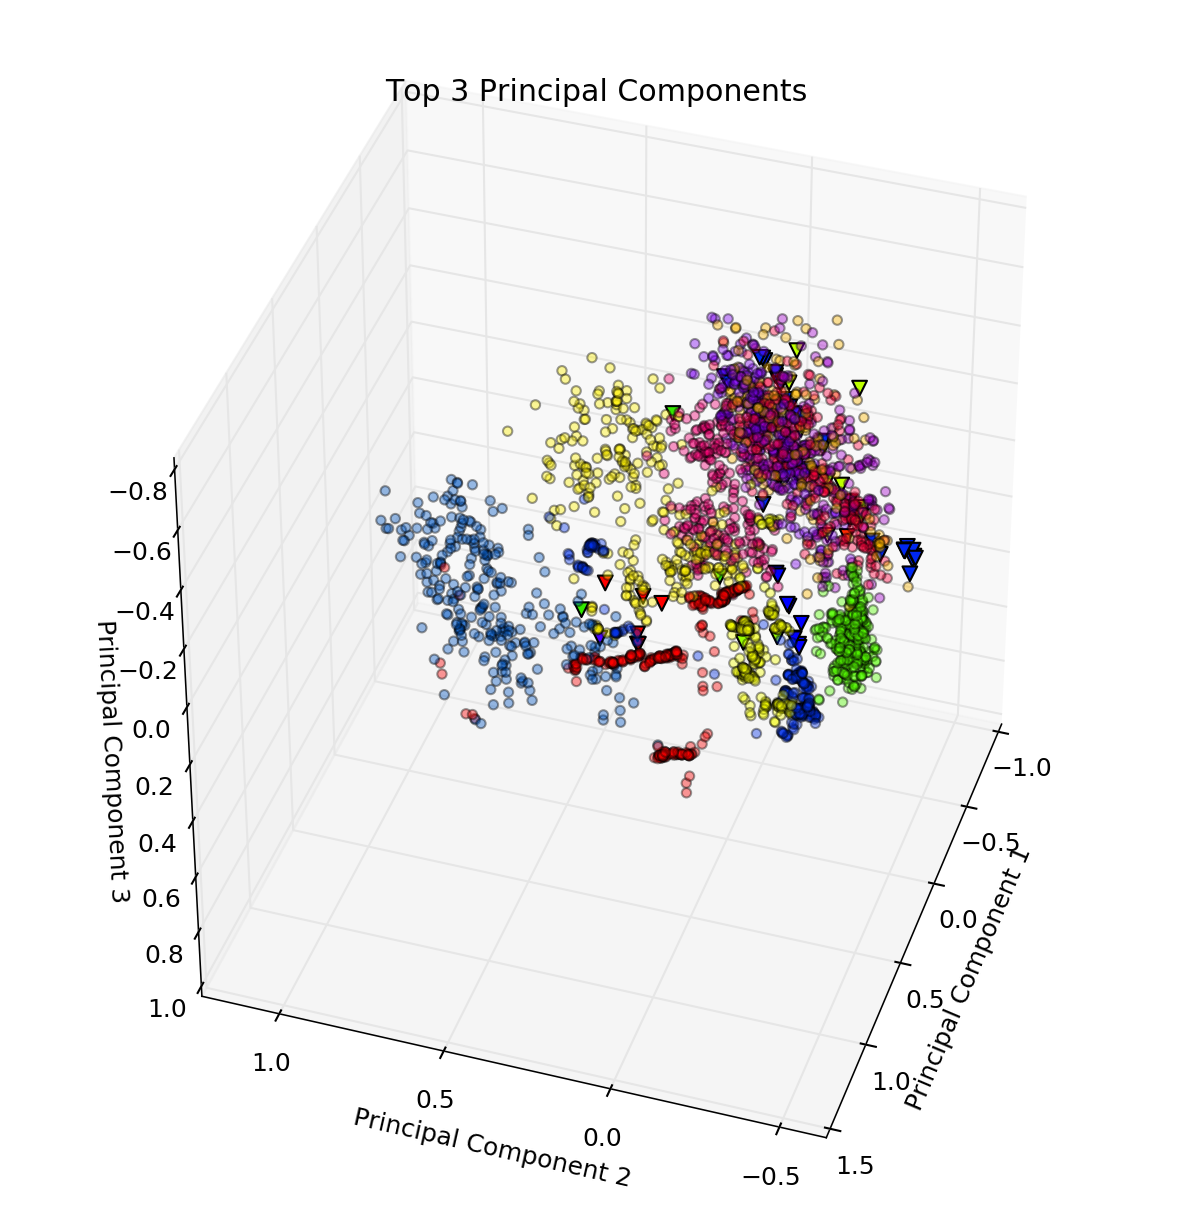
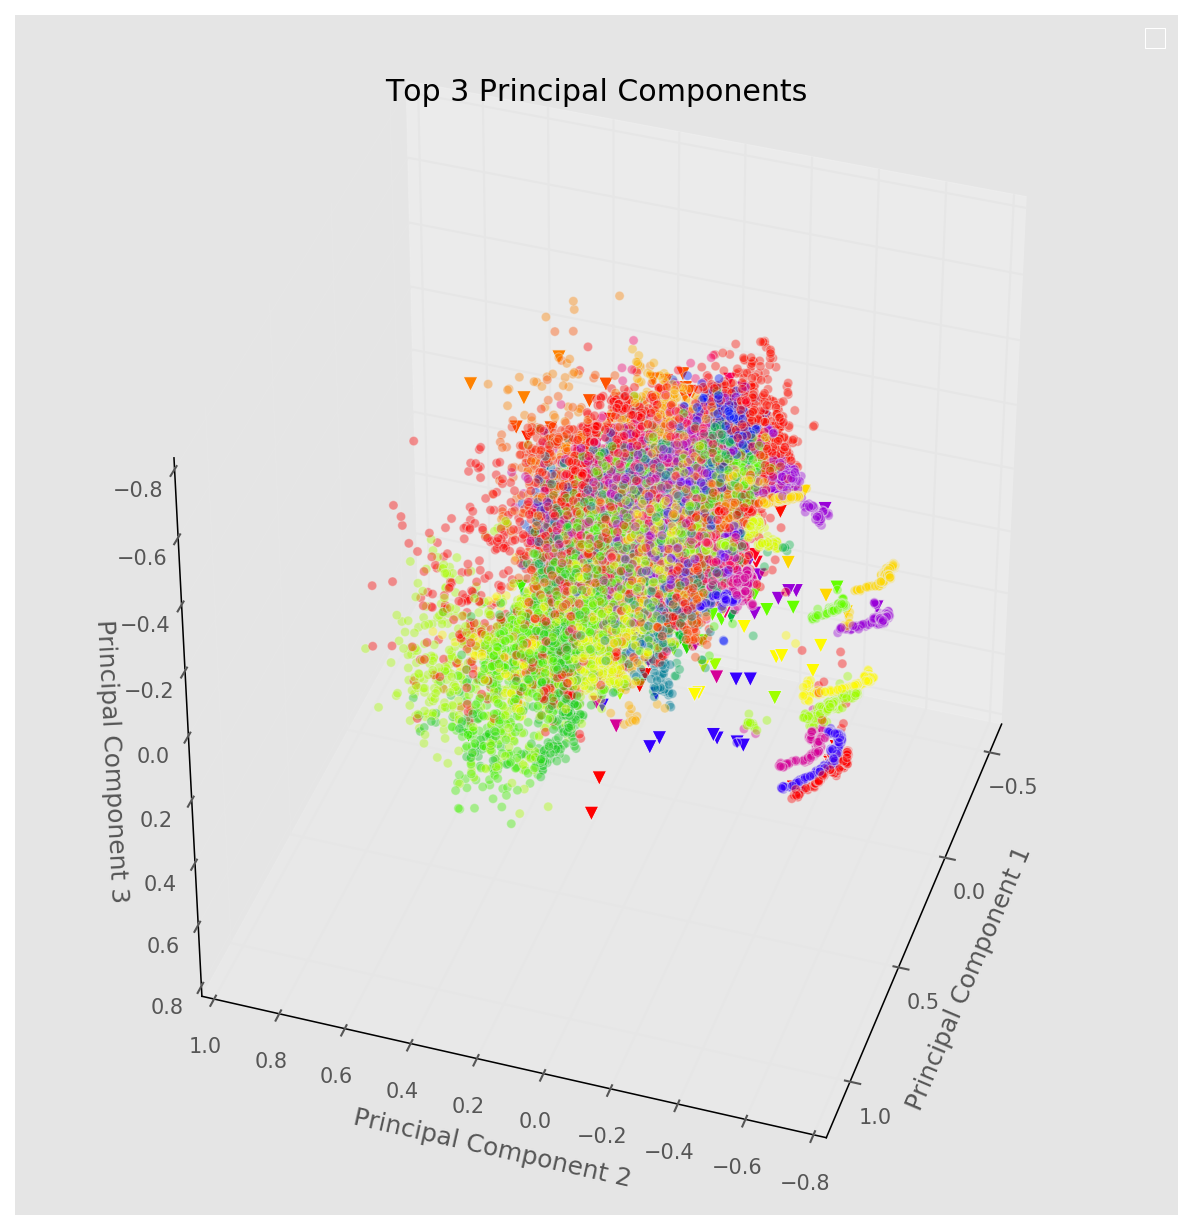
report revision

diff --git a/code/03_svm_sgd_a-s.py b/code/03_svm_sgd_a-s.py
@@ -62,59 +62,60 @@ print(verify)
 # ---------------------
 # Activity and then Subject
 # ---------------------
-# step 1.1 - get the readings data (from data stratified using activity)
-readings_train = df_train_a.ix[:,:-2]
-activity_train = df_train_a.ix[:,-1]
+    for i in range(100):
+    # step 1.1 - get the readings data (from data stratified using activity)
+    readings_train = df_train_a.ix[:,:-2]
+    activity_train = df_train_a.ix[:,-1]
 
-# step 1.2 - fit the model to predict activity
-print('Fitting model to predict activity ...')
-clf_activity = SGDClassifier(alpha=0.1)
-time_bgn = time.time()
-clf_activity.fit(readings_train, activity_train)
-dur_train_activity = time.time() - time_bgn
+    # step 1.2 - fit the model to predict activity
+    print('Fitting model to predict activity ...')
+    clf_activity = SGDClassifier(alpha=0.1)
+    time_bgn = time.time()
+    clf_activity.fit(readings_train, activity_train)
+    dur_train_activity = time.time() - time_bgn
 
-# step 2.1 - get the readings data with activity
-readings_train = df_train_s.ix[:,:-2]
-activity_train = df_train_s.ix[:,-1]
-readings_act_train = np.column_stack((readings_train, activity_train))
-subj_train = df_train_s.ix[:,-2]
+    # step 2.1 - get the readings data with activity
+    readings_train = df_train_s.ix[:,:-2]
+    activity_train = df_train_s.ix[:,-1]
+    readings_act_train = np.column_stack((readings_train, activity_train))
+    subj_train = df_train_s.ix[:,-2]
 
-# step 2.2 - join activity for training and fit the model to predict subject
-print('Fitting model to predict subject ...')
-clf_subject = SGDClassifier(alpha=0.1)
-time_bgn = time.time()
-clf_subject.fit(readings_act_train, subj_train)
-dur_train_subj = time.time() - time_bgn
-
-
-subj_train_for_result = subj_train
-activity_train_for_result = activity_train
-predicted_activity_train = clf_activity.predict(readings_train)
-predicted_subj_train = clf_subject.predict(readings_act_train)
+    # step 2.2 - join activity for training and fit the model to predict subject
+    print('Fitting model to predict subject ...')
+    clf_subject = SGDClassifier(alpha=0.1)
+    time_bgn = time.time()
+    clf_subject.fit(readings_act_train, subj_train)
+    dur_train_subj = time.time() - time_bgn
 
 
-# step 3.1 - predict activity and join it to the readings data
-print('Predicting activity ... ')
-readings_test = df_test_s.ix[:,:-2]
-predicted_activity = clf_activity.predict(readings_test)
-readings_activity_test = np.column_stack((readings_test,predicted_activity))
+    subj_train_for_result = subj_train
+    activity_train_for_result = activity_train
+    predicted_activity_train = clf_activity.predict(readings_train)
+    predicted_subj_train = clf_subject.predict(readings_act_train)
 
-# step 3.2 - predict subject
-print('Predicting subject ... ')
-predicted_subject = clf_subject.predict(readings_activity_test)
-print(predicted_subject)
 
-# step 4 - printing results
-actual_activity_test = df_test_s.ix[:,-1]
-actual_subject_test = df_test_s.ix[:,-2]
-subj_activity_test = np.array((100*actual_subject_test) + actual_activity_test)
-predicted_subj_activity_test = (100*predicted_subject) + predicted_activity
+    # step 3.1 - predict activity and join it to the readings data
+    print('Predicting activity ... ')
+    readings_test = df_test_s.ix[:,:-2]
+    predicted_activity = clf_activity.predict(readings_test)
+    readings_activity_test = np.column_stack((readings_test,predicted_activity))
 
-subj_activity_train = (100*subj_train_for_result) + activity_train_for_result
-predicted_subj_activity_train = (100*predicted_subj_train) + predicted_activity_train
+    # step 3.2 - predict subject
+    print('Predicting subject ... ')
+    predicted_subject = clf_subject.predict(readings_activity_test)
+    print(predicted_subject)
 
-ResultsWriter.write_to_file('results_junquan.txt',model='svm_sgd',
-                            y_train_actual=subj_activity_train, y_train_predicted=predicted_subj_activity_train,
-                            y_test_actual=subj_activity_test,y_test_predicted=predicted_subj_activity_test,
-                            dur_train_activity=dur_train_activity, dur_train_subj=dur_train_subj, dur_train_both=0,
-                            method='as') # method = both / as / sa
+    # step 4 - printing results
+    actual_activity_test = df_test_s.ix[:,-1]
+    actual_subject_test = df_test_s.ix[:,-2]
+    subj_activity_test = np.array((100*actual_subject_test) + actual_activity_test)
+    predicted_subj_activity_test = (100*predicted_subject) + predicted_activity
+
+    subj_activity_train = (100*subj_train_for_result) + activity_train_for_result
+    predicted_subj_activity_train = (100*predicted_subj_train) + predicted_activity_train
+
+    ResultsWriter.write_to_file('results_junquan.txt',model='svm_sgd_' + str(i+1),
+                                y_train_actual=subj_activity_train, y_train_predicted=predicted_subj_activity_train,
+                                y_test_actual=subj_activity_test,y_test_predicted=predicted_subj_activity_test,
+                                dur_train_activity=dur_train_activity, dur_train_subj=dur_train_subj, dur_train_both=0,
+                                method='as') # method = both / as / sa

diff --git a/code/03_svm_sgd-s-a.py b/code/03_svm_sgd-s-a.py
@@ -62,57 +62,58 @@ print(verify)
 # ---------------------
 # Subject and then Activity
 # ---------------------
-# step 1.1 - get the readings data (from data stratified using activity)
-readings_train = df_train_a.ix[:,:-2]
-subj_train = df_train_a.ix[:,-2]
+for i in range(100):
+    # step 1.1 - get the readings data (from data stratified using activity)
+    readings_train = df_train_a.ix[:,:-2]
+    subj_train = df_train_a.ix[:,-2]
 
-# step 1.2 - fit the model to predict subject
-print('Fitting model to predict subject ...')
-clf_subject = SGDClassifier(alpha=0.1)
-time_bgn = time.time()
-clf_subject.fit(readings_train, subj_train)
-dur_train_subj = time.time() - time_bgn
+    # step 1.2 - fit the model to predict subject
+    print('Fitting model to predict subject ...')
+    clf_subject = SGDClassifier(alpha=0.1)
+    time_bgn = time.time()
+    clf_subject.fit(readings_train, subj_train)
+    dur_train_subj = time.time() - time_bgn
 
-# step 2.1 - get the readings data with subject
-readings_train = df_train_s.ix[:,:-2]
-activity_train = df_train_s.ix[:,-1]
-subj_train = df_train_s.ix[:,-2]
+    # step 2.1 - get the readings data with subject
+    readings_train = df_train_s.ix[:,:-2]
+    activity_train = df_train_s.ix[:,-1]
+    subj_train = df_train_s.ix[:,-2]
 
-# step 2.2 - join subject for training and fit the model to predict activity
-print('Fitting model to predict activity ...')
-readings_subj_train = np.column_stack((readings_train, subj_train))
-clf_activity = SGDClassifier(alpha=0.1)
-time_bgn = time.time()
-clf_activity.fit(readings_subj_train, activity_train)
-dur_train_activity = time.time() - time_bgn
+    # step 2.2 - join subject for training and fit the model to predict activity
+    print('Fitting model to predict activity ...')
+    readings_subj_train = np.column_stack((readings_train, subj_train))
+    clf_activity = SGDClassifier(alpha=0.1)
+    time_bgn = time.time()
+    clf_activity.fit(readings_subj_train, activity_train)
+    dur_train_activity = time.time() - time_bgn
 
-subj_train_for_result = subj_train
-activity_train_for_result = activity_train
-predicted_subj_train = clf_subject.predict(readings_train)
-predicted_activity_train = clf_activity.predict(readings_subj_train)
+    subj_train_for_result = subj_train
+    activity_train_for_result = activity_train
+    predicted_subj_train = clf_subject.predict(readings_train)
+    predicted_activity_train = clf_activity.predict(readings_subj_train)
 
 
-# step 3.1 - predict subject and join it to the readings data
-print('Predicting subject ... ')
-readings_test = df_test_s.ix[:,:-2]
-predicted_subject = clf_subject.predict(readings_test)
-readings_subject_test = np.column_stack((readings_test,predicted_subject))
+    # step 3.1 - predict subject and join it to the readings data
+    print('Predicting subject ... ')
+    readings_test = df_test_s.ix[:,:-2]
+    predicted_subject = clf_subject.predict(readings_test)
+    readings_subject_test = np.column_stack((readings_test,predicted_subject))
 
-# step 3.2 - predict subject
-print('Predicting activity ... ')
-predicted_activity = clf_activity.predict(readings_subject_test)
+    # step 3.2 - predict subject
+    print('Predicting activity ... ')
+    predicted_activity = clf_activity.predict(readings_subject_test)
 
-# step 4 - printing results
-actual_activity_test = df_test_s.ix[:,-1]
-actual_subject_test = df_test_s.ix[:,-2]
-subj_activity_test = np.array((100*actual_subject_test) + actual_activity_test)
-predicted_subj_activity_test = (100*predicted_subject) + predicted_activity
+    # step 4 - printing results
+    actual_activity_test = df_test_s.ix[:,-1]
+    actual_subject_test = df_test_s.ix[:,-2]
+    subj_activity_test = np.array((100*actual_subject_test) + actual_activity_test)
+    predicted_subj_activity_test = (100*predicted_subject) + predicted_activity
 
-subj_activity_train = (100*subj_train_for_result) + activity_train_for_result
-predicted_subj_activity_train = (100*predicted_subj_train) + predicted_activity_train
+    subj_activity_train = (100*subj_train_for_result) + activity_train_for_result
+    predicted_subj_activity_train = (100*predicted_subj_train) + predicted_activity_train
 
-ResultsWriter.write_to_file('results_junquan.txt',model='svm_sgd',
-                            y_train_actual=subj_activity_train, y_train_predicted=predicted_subj_activity_train,
-                            y_test_actual=subj_activity_test,y_test_predicted=predicted_subj_activity_test,
-                            dur_train_activity=dur_train_activity, dur_train_subj=dur_train_subj, dur_train_both=0,
-                            method='sa') # method = both / as / sa
+    ResultsWriter.write_to_file('results_junquan_mbp.txt',model='svm_sgd_' + str(i+1),
+                                y_train_actual=subj_activity_train, y_train_predicted=predicted_subj_activity_train,
+                                y_test_actual=subj_activity_test,y_test_predicted=predicted_subj_activity_test,
+                                dur_train_activity=dur_train_activity, dur_train_subj=dur_train_subj, dur_train_both=0,
+                                method='sa') # method = both / as / sa

diff --git a/code/08_final_plots.py b/code/08_final_plots.py
@@ -55,6 +55,7 @@ df_small_pred_subj_activity = df_small.ix[:,-3]
 
 accurate = np.array(df_small_true_subj_activity == df_small_pred_subj_activity)
 
+plt.style.use('ggplot')
 # --------------------------------------------------------
 # Correct vs Incorrect Plots
 
@@ -93,6 +94,9 @@ ax.scatter(dftr[accurate][:,0], dftr[accurate][:,1], dftr[accurate][:,2],
            c=dftr[accurate][:,3],cmap=plt.cm.prism, marker='o', alpha=.4)
 ax.scatter(dftr[~accurate][:,0], dftr[~accurate][:,1], dftr[~accurate][:,2],
            c=dftr[~accurate][:,3],cmap=plt.cm.prism, marker='v', alpha=1, s= 50)
+
+handles, labels = ax.get_legend_handles_labels()
+ax.legend(handles, labels)
 
 plt.savefig('../plots/pca_3components_classified.png', format='png', bbox_inches='tight', pad_inches=0.1,dpi=150)
 

diff --git a/code/07_final_model_kfold.py b/code/07_final_model_kfold.py
@@ -35,7 +35,7 @@ df.rename(columns={0:'activity_subj'}, inplace=True)
 
 # split data set into test and train using K-Fold (for both subj and activity)
 # ---------------------
-skf = StratifiedKFold(n_splits=3, shuffle=False, random_state=2016)
+skf = StratifiedKFold(n_splits=10, shuffle=False, random_state=2016)
 
 # Scale data
 readings = df.ix[:,:-3]

diff --git a/report/report.md b/report/report.md
@@ -141,9 +141,7 @@ The approach taken can be generalized as such, based on the methodology above:
   * Activity -> Subject (A -> S)
   * Both
 
-#### Initial Comparison
-
-##### Support Vector Machines
+#### Support Vector Machines
 
 Due to the large sample size, SVM using SGD learning was our first model. Being an efficient model, runtime would be fast and we would get a quick feel of how the model performed. Note that PCA was not carried out in this case. It has been proven that RBF kernel is not suitable in cases where the number of features is large - a linear kernel would be more suitable[1]. 
 
@@ -170,7 +168,7 @@ Both | 0.xx | 0.00 | 0.00 | 113.75
 
 The best model selected from the Grid Search produced an accuracy of **0.65** at `alpha = 0.01`, which took **50.1** seconds to train.
 
-##### Gaussian Naive Bayes
+#### Gaussian Naive Bayes
 
 The Gaussian Naive Bayes is generative model that is based on very simplistic calculations to calculate posterior probability. As such, it would be very efficient. Further, it is well-known that Gaussian Naive Bayes has been performant in real-world situations despite its unrealistic assumption of conditional independence. Therefore, we next used Gaussian Naive Bayes with scaling and PCA. The choice to scale prior to conducting PCA was because the variables were measured on different scales (e.g. Heartrate in beats per minute vs. Chest temperature in Celsius). Also, scaling before PCA has been shown to produce better results[2].
 
@@ -194,7 +192,7 @@ The model under the 'Both' condition produced an accuracy of 0.96 with a slight 
 
 As such, we selected this model to be our final model to be compared with a multi-output classifier shipped with Scikit-learn. 
 
-##### Comparison with Multi-Output Classifier 
+#### Comparison with Multi-Output Classifier 
 
 In this comparison, the main objective is to compare the performance of two algorithms that theoretically aim to do the same thing. The difference is in the details where the 'Both' condition predicts a concatenated target variable, essentially converting the problem into a binary classification problem, while the Multi-output Classifier still considers multiple target variables (in this case 2) and predicts them together. The multi-output classifier classifies by fitting 1 classifier per target. In our case, 1 classifier will be fitted to predict Activity and 1 classifier will be fitted to predict Subject. The result of multi-output is shown below. 
 
@@ -204,44 +202,44 @@ Multi-Output | 0.96 | 1.81
 
 The Gaussian Naive Bayes model with Multi-output Classifier produced an accuracy of **0.54** which took a duration of **2.75** seconds. This is significantly less performant than the standard classifier.
 
-The difference in performance could simply be the difference between the strategy adopted by the Multi-output 
+The difference in performance could simply be the difference between the strategy adopted by the Multi-Output 
 Classifier. 
 
-### Misc
+#### k-fold Cross Validation
 
-An interesting point to note is that the 'Both' condition consistently performed better than the other two methods across all models. Upon close consideration, this can be said to be an expected result. When predicting one target variable after the other, the errors made in predictions stack up. For example, in the case of S > A, the errors made in first predicting `'subject'` would then be carried over to wrongly predict `'activity_id'` as `'subject'` becomes part of the variable used to predict A.
+The k-fold cross validation was also performed to evaluate the Gaussian Naive Bayes model in addition to the hold-out
+ method used earlier. k-fold was used in addition to the hold-out method due to the fact that with k-fold, the 
+ evaluation of the model is less impacted by how the data is divided. StratifiedKFold from sklearn was used due to 
+ the unbalanced classes we are trying to predict. 
+ 
+ 10-fold cross validation was used and the average accuracy of the Gaussian Naive Bayes model predicting both Subject and Activity at the same time is: 
+ 
+ This is similar to the results earlier. 
+
+#### Visualizing the Classifications
+
+To understand how the Gaussian Naive Bayes classify the data set, the principal components and the temperatures were 
+visualized with the classes predicted. 
+
+* Colors denote the various subject - activities
+* Circles denote correctly predicted classes
+* Inverted triangles denote incorrectly predicted classes
+
+![Scree Plot](../plots/screeplot.png)
 
 ## Conclusion
 
+
+## Discussions
+
 Generalising this beyond the context of this dataset, this study has shown a few key points in comparing methods of classifying multi-output problems.
-
 * Gaussian Naive Bayes model without PCA tends to perform better, in terms of both accuracy and efficiency. This is especially so when sample size is large.
-
 * Concatenating the multiple outputs into one target variable with more unique levels performs better than trying to predict the target variables as standalone outputs.
 
+An interesting point to note is that the 'Both' condition consistently performed better than the other two methods across all models. Upon close consideration, this can be said to be an expected result. When predicting one target variable after the other, the errors made in predictions stack up. For example, in the case of S > A, the errors made in first predicting `'subject'` would then be carried over to wrongly predict `'activity_id'` as `'subject'` becomes part of the variable used to predict A.
 
 ## References
 
 [1] Hsu, et al (2016), [*A Practical Guide to Support Vector Classification*](http://www.csie.ntu.edu.tw/~cjlin/papers/guide/guide.pdf)
 
 [2] Raschka S. (2014), [*About Feature Scaling and Normalization*](http://sebastianraschka.com/Articles/2014_about_feature_scaling.html)
-
----
-
-Things that came up during discussions with prof
-
-Potential Techniques
-* Potential techniques not required in proposal yet
-* Principle Component Analysis
-* Decision Trees (may some ensemble?)
-* SVM ?
-
-Things to do
-* Predict the person
-* Predict the activity
-* Make the prediction 2 layers
-* first layer to classify the person
-* second layer to classify the activity
-* can also do a joint classifier
-* Need to interpret classifier (eg. speed to determine whether person is walking or running)
-* for eg. what dimension needs to
